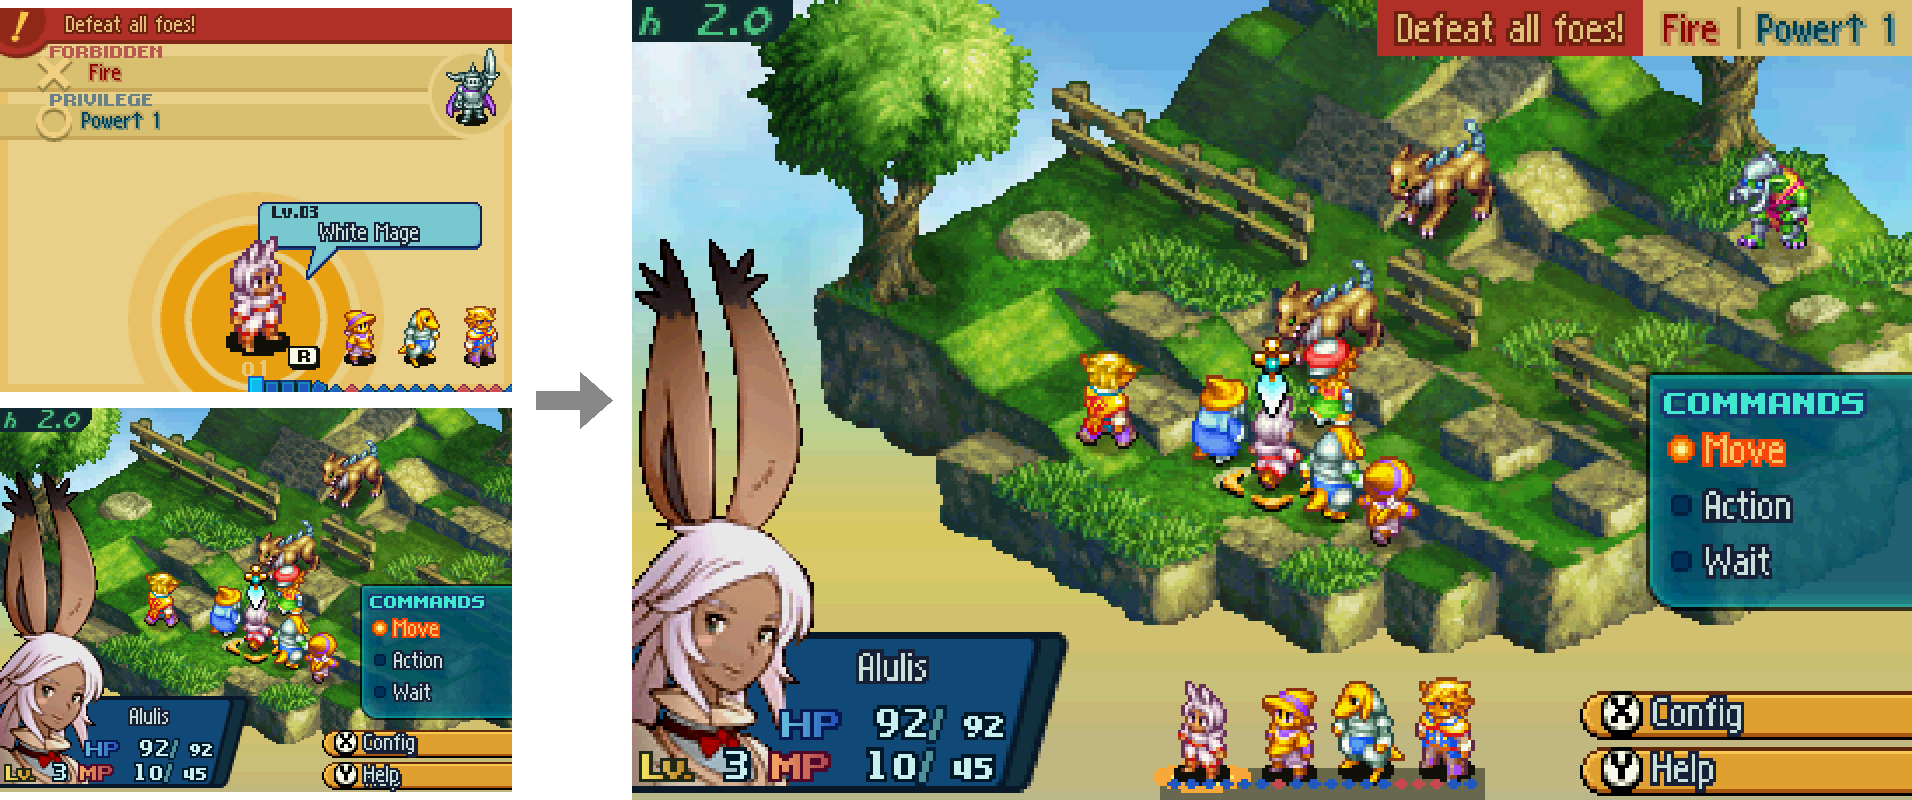
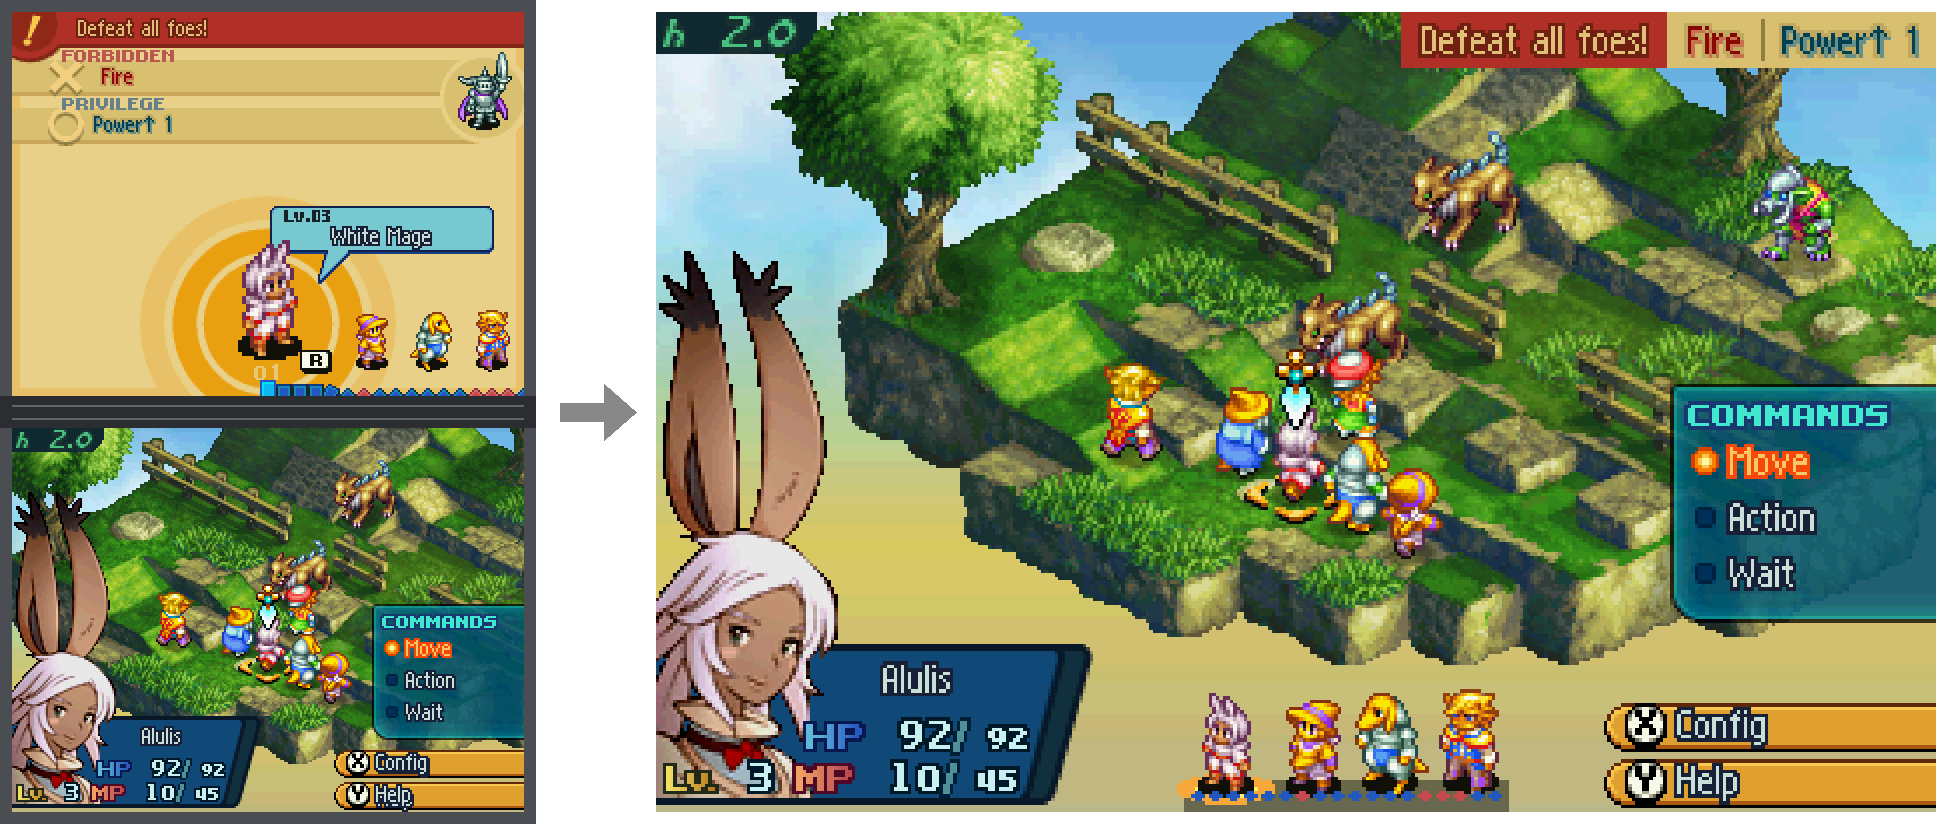
Before-and-after catalogue, the Belias clip, and pictures that show the DS's two screens

diff --git a/scripts/readme_pictures.py b/scripts/readme_pictures.py
@@ -1,0 +1,146 @@
+#!/usr/bin/env python3
+"""The README's and the catalogue's before -> after pictures, and the Scion clip.
+
+usage: readme_pictures.py readme|catalogue|clip|all
+
+Each picture is the unmodified game on a drawn DS (both screens at 2x, with the hinge between
+them, so it is plain the game used to be split) next to the Deck build's one screen at 1280x800,
+with an arrow between. Captures first (none of them go in git; build/ is ignored):
+
+  pictures   O=build/cat/after scripts/solo_menus.sh
+             RAW=1 NOSEL=1 ROM=build/ffta2-ref.nds O=build/cat/before scripts/solo_menus.sh
+             (build/ffta2-ref.nds: patch.py ... --display 4x3 --no-hooks, see docs/test-saves.md)
+  clip       ROM=build/ffta2-ref.nds scripts/play_scion.py 0 build/belias/before 206,208,...,774
+             scripts/solo_scion.py 0 build/belias/after 206-776/2
+
+Writes docs/pictures/*.png (README), docs/pictures/catalogue/*.png (docs/catalogue.md) and
+docs/pictures/belias.webp, plus build/belias/belias.mp4 (to upload through GitHub's editor).
+The only game pictures the repository may hold are these (audit_repo.py allows docs/pictures/).
+"""
+import os, subprocess, sys
+from PIL import Image, ImageDraw
+
+ROOT = os.path.dirname(os.path.dirname(os.path.abspath(__file__)))
+CAT = os.path.join(ROOT, "build", "cat")
+CLIP = os.path.join(ROOT, "build", "belias")
+PICS = os.path.join(ROOT, "docs", "pictures")
+
+README = {"battle": ("battle", "battle"), "info-overlay": ("party", "party_ov"),
+          "change-jobs": ("jobs2", "jobs2"), "world-map": ("worldmap", "worldmap")}
+BEZEL, HINGE, EDGE, ARROW = (74, 77, 82), (43, 45, 49), (98, 102, 108), (136, 136, 136)
+B, G, GAP = 12, 32, 120                  # bezel, hinge height, room for the arrow
+DS_W, DS_H = 512 + 2 * B, 384 * 2 + 2 * B + G
+W, H = DS_W + GAP + 1280, DS_H
+
+
+def catalogue():
+    out = {}
+    for line in CATALOGUE_LIST.strip().splitlines():
+        name, before, *after = line.split()
+        out[name] = (before, after[0] if after else before)
+    return out
+
+
+# docs/catalogue.md shows these (its own order and captions): name, before, after if different
+CATALOGUE_LIST = """
+action action
+forecast forecast
+help help
+battle-menu bmenu
+law law
+unit-sheet unitinfo unitinfo_ov
+ability-list abil_mage_list
+status status
+privilege privpick
+placement place
+results results
+law-bonus lawbonus
+later-battle bq18
+story-in-battle bq22
+equipment equip
+item-info equip_info
+item-list itemlist
+main-menu main
+clan clan
+quests quests
+world-map-sheet worldmap worldmap_ov
+town town
+pub pub
+quest-details questdetail
+shop shopmenu
+buying buy_info
+fitting-room fitting
+map-of-ivalice late_ivalice
+bazaar late_bazaar
+auction-house late_auction
+later-town late_camoa_town
+clan-trials late_trials
+token-emporium late_emporium
+"""
+
+
+def ds(before):
+    """Both screens (a 256x384 capture, top over bottom) at 2x on a drawn DS: a bezel round
+    them and the hinge between, so the split is obvious."""
+    s = before.convert("RGB").resize((512, 768), Image.NEAREST)
+    im = Image.new("RGBA", (DS_W, DS_H), BEZEL + (255,))
+    d = ImageDraw.Draw(im)
+    d.rectangle((0, B + 384, DS_W - 1, B + 384 + G - 1), fill=HINGE + (255,))
+    for y in (B + 384 + 9, B + 384 + G - 10):
+        d.line((B, y, DS_W - B - 1, y), fill=EDGE + (255,), width=2)
+    im.paste(s.crop((0, 0, 512, 384)), (B, B))
+    im.paste(s.crop((0, 384, 512, 768)), (B, B + 384 + G))
+    return im
+
+
+def pair(before, after, bg=(0, 0, 0, 0)):
+    im = Image.new("RGBA", (W, H), bg)
+    im.paste(ds(before), (0, 0))
+    im.paste(after.convert("RGB"), (DS_W + GAP, (H - 800) // 2))
+    d = ImageDraw.Draw(im)
+    cx, cy = DS_W + GAP // 2, H // 2
+    d.rectangle((cx - 36, cy - 9, cx + 8, cy + 9), fill=ARROW + (255,))
+    d.polygon([(cx + 8, cy - 28), (cx + 40, cy), (cx + 8, cy + 28)], fill=ARROW + (255,))
+    return im
+
+
+def pictures(table, outdir):
+    os.makedirs(outdir, exist_ok=True)
+    for name, (b, a) in table.items():
+        pair(Image.open(os.path.join(CAT, "before", b + ".png")),
+             Image.open(os.path.join(CAT, "after", a + ".png"))).save(
+            os.path.join(outdir, name + ".png"), optimize=True)
+        print(os.path.relpath(os.path.join(outdir, name + ".png"), ROOT))
+
+
+def clip(first=300, last=700):
+    """Belias from game frame `first` to `last` (captures every 2nd frame): an animated WebP
+    for the README (half size, 15 fps, see-through round the pictures) and an MP4."""
+    frames = range(first, last, 2)
+    load = lambda side, f: Image.open(os.path.join(CLIP, side, "0_%04d.png" % f))
+    web = [pair(load("before", f), load("after", f)).resize((W // 2, H // 2), Image.LANCZOS)
+           for f in frames[::2]]
+    out = os.path.join(PICS, "belias.webp")
+    web[0].save(out, save_all=True, append_images=web[1:], duration=67, loop=0, quality=55, method=6)
+    print(os.path.relpath(out, ROOT), os.path.getsize(out) // 1024, "KB")
+    tmp = os.path.join(CLIP, "mp4")
+    os.makedirs(tmp, exist_ok=True)
+    for i, f in enumerate(frames):
+        pair(load("before", f), load("after", f), (13, 17, 23, 255)).convert("RGB").save(
+            os.path.join(tmp, "%04d.png" % i))
+    mp4 = os.path.join(CLIP, "belias.mp4")
+    subprocess.check_call(["ffmpeg", "-loglevel", "error", "-y", "-framerate", "30", "-i",
+                           os.path.join(tmp, "%04d.png"), "-vf", "scale=1280:-2:flags=lanczos",
+                           "-c:v", "libx264", "-crf", "28", "-preset", "slow", "-pix_fmt", "yuv420p",
+                           "-movflags", "+faststart", mp4])
+    print(os.path.relpath(mp4, ROOT), os.path.getsize(mp4) // 1024, "KB")
+
+
+if __name__ == "__main__":
+    what = sys.argv[1] if len(sys.argv) > 1 else "all"
+    if what in ("readme", "all"):
+        pictures(README, PICS)
+    if what in ("catalogue", "all"):
+        pictures(catalogue(), os.path.join(PICS, "catalogue"))
+    if what in ("clip", "all"):
+        clip()

diff --git a/docs/catalogue.md b/docs/catalogue.md
@@ -1,0 +1,169 @@
+# Before and after
+
+More of the game with and without **FFTA2 One Screen**. In every picture, the left side is
+the unmodified game on the DS's two screens (shown at 2x), and the right side is the same
+moment with the mod's Steam Deck patch, on one 1280x800 screen. Each pair comes from the
+same savestate.
+
+Back to the [README](../README.md).
+
+- [Battles](#battles)
+- [Party and menus](#party-and-menus)
+- [World map, towns and shops](#world-map-towns-and-shops)
+- [Later in the game](#later-in-the-game)
+
+## Scions
+
+The Scions' summons are the only animations the game draws across both screens at once. With
+the mod they play as one tall picture on the one screen.
+
+![Belias's summon: on the DS its picture runs across both screens; with the mod it plays whole on one screen](pictures/belias.webp)
+
+## Battles
+
+Choosing an action. The battle map fills the wide screen; the objective, law and privilege
+sit in the banner at the top right, and the turn order at the bottom.
+
+![Before and after: choosing an action in battle](pictures/catalogue/action.png)
+
+The hit forecast before an attack, with both units' panels at the bottom edges.
+
+![Before and after: the hit forecast before an attack](pictures/catalogue/forecast.png)
+
+Help for the highlighted command.
+
+![Before and after: help text in battle](pictures/catalogue/help.png)
+
+The battle menu.
+
+![Before and after: the battle menu](pictures/catalogue/battle-menu.png)
+
+Viewing the battle's law.
+
+![Before and after: viewing the law in battle](pictures/catalogue/law.png)
+
+A unit's sheet, which the DS showed on the top screen, laid over the battle after a tap of
+SELECT.
+
+![Before and after: a unit's sheet on the top screen, then laid over the battle](pictures/catalogue/unit-sheet.png)
+
+The ability list, made more compact.
+
+![Before and after: a black mage's ability list](pictures/catalogue/ability-list.png)
+
+Buffs and debuffs.
+
+![Before and after: the buffs and debuffs list](pictures/catalogue/status.png)
+
+Choosing a clan privilege before a battle.
+
+![Before and after: choosing a clan privilege](pictures/catalogue/privilege.png)
+
+Placing units before a battle.
+
+![Before and after: placing units](pictures/catalogue/placement.png)
+
+The results after a battle.
+
+![Before and after: battle results](pictures/catalogue/results.png)
+
+The law bonus at the end of a battle.
+
+![Before and after: the law bonus](pictures/catalogue/law-bonus.png)
+
+A battle later in the game.
+
+![Before and after: a later battle map](pictures/catalogue/later-battle.png)
+
+A story scene played on a battle map.
+
+![Before and after: a story scene on a battle map](pictures/catalogue/story-in-battle.png)
+
+## Party and menus
+
+Equipping a unit.
+
+![Before and after: equipping a unit](pictures/catalogue/equipment.png)
+
+Item Info in the equipment list: the unit's stats, which were on the top screen, sit beside
+the game's own panel.
+
+![Before and after: Item Info with the unit's stats beside it](pictures/catalogue/item-info.png)
+
+The item list.
+
+![Before and after: the item list](pictures/catalogue/item-list.png)
+
+The main menu.
+
+![Before and after: the main menu on the world map](pictures/catalogue/main-menu.png)
+
+The clan menu.
+
+![Before and after: the clan menu](pictures/catalogue/clan.png)
+
+Accepted quests.
+
+![Before and after: the list of accepted quests](pictures/catalogue/quests.png)
+
+## World map, towns and shops
+
+The world map, with the clan's page (the top screen on the DS) laid over it after a tap of
+SELECT.
+
+![Before and after: the clan's page on the top screen, then laid over the world map](pictures/catalogue/world-map-sheet.png)
+
+A town's menu on the world map.
+
+![Before and after: a town on the world map](pictures/catalogue/town.png)
+
+The pub.
+
+![Before and after: the pub](pictures/catalogue/pub.png)
+
+A quest's details at the pub.
+
+![Before and after: a quest's details](pictures/catalogue/quest-details.png)
+
+A shop.
+
+![Before and after: a shop's menu](pictures/catalogue/shop.png)
+
+Buying, with Item Info open and the unit's stats beside it.
+
+![Before and after: Item Info while buying](pictures/catalogue/buying.png)
+
+The fitting room.
+
+![Before and after: the fitting room](pictures/catalogue/fitting-room.png)
+
+## Later in the game
+
+The map of Ivalice. Its edges are extended to reach the sides of the wide screen.
+
+![Before and after: the map of Ivalice](pictures/catalogue/map-of-ivalice.png)
+
+The bazaar.
+
+![Before and after: the bazaar](pictures/catalogue/bazaar.png)
+
+The auction house.
+
+![Before and after: the auction house](pictures/catalogue/auction-house.png)
+
+A later town.
+
+![Before and after: a later town on the world map](pictures/catalogue/later-town.png)
+
+Clan trials.
+
+![Before and after: the list of clan trials](pictures/catalogue/clan-trials.png)
+
+The token emporium.
+
+![Before and after: the token emporium](pictures/catalogue/token-emporium.png)
+
+---
+
+The pictures are screenshots of the game running in an emulator, for comparison. This project
+is not affiliated with Square Enix or Nintendo; see [Legal](../README.md#legal).

diff --git a/CLAUDE.md b/CLAUDE.md
@@ -10,7 +10,7 @@ A ROM patch for Final Fantasy Tactics A2 (DS, USA) that puts the whole game on o
 - **Applying** is done by `scripts/modpatch.py` (stdlib only), from a mod description `patch.py` builds: the same code players run from `dist/ffta2-1screen-patcher.py` (`scripts/make_patcher.py`), which works on ROMs other mods have changed (ADR 0011). A new patch site needs its `put(addr, new, original)` in `patch.py` and a line in `docs/symbols.tsv` (the name shows in clash messages). After changing either, run `python3 scripts/test_modpatch.py` and keep `scripts/check_no_game_bytes.py` passing on anything meant for publishing.
 - **Test:** `scripts/solo.py STATE SCRIPT OUTDIR` gives an exact 1280x800 picture of the mod's screen in seconds, from DeSmuME savestates in `states/`. Use it for previews. For a real melonDS look at a known moment, `scripts/melon_state.py states/m_battle1.ml1 OUT.png` (about 15 s, any build; melonDS states in `states/m_*.ml1`); the older replay rigs (`scripts/melon_*.sh`) are slow and only needed to make new base states. `docs/test-saves.md` explains how the states and saves are rebuilt. `scripts/vram_guard.py STATE [SCRIPT]` reports when the mod and the game use the same video memory at once (silent = clean; `scripts/vram_guard_all.sh` runs every state and menu walk, about 9 min). The ranges it watches are `borrowed_vram[]` at the end of `src/hook.c`: add a line there whenever the mod starts writing video memory somewhere new. `patch.py --guard` makes a test ROM for playing that lights a red dot top left when it catches a clash; `scripts/guard_report.py STATE` reads the details from a savestate made there.
 - **One emulator rig at a time on this machine.** Other sessions share it: check `pgrep -x melonDS` before a melonDS run and never `pkill` another session's rig.
-- Local git commits are fine. Pushing to a remote, or making anything public, waits for the user's word. Game data and anything derived from it (ROM, `unpacked/`, `work/`, `states/`, `shots/`, `preview/`) stays out of git. Don't quote game texts in tickets or scripts (give lengths or table addresses); the only game pictures allowed are the README's in `docs/pictures/`. `.venv/bin/python scripts/audit_repo.py --tree` (about 3 min) checks the files for game bytes, game text and binaries; without `--tree` it checks the whole history.
+- Local git commits are fine. Pushing to a remote, or making anything public, waits for the user's word. Game data and anything derived from it (ROM, `unpacked/`, `work/`, `states/`, `shots/`, `preview/`) stays out of git. Don't quote game texts in tickets or scripts (give lengths or table addresses); the only game pictures allowed are in `docs/pictures/`: the README's and the before-and-after catalogue's (`docs/catalogue.md`), all made by `scripts/readme_pictures.py`. `.venv/bin/python scripts/audit_repo.py --tree` (about 3 min) checks the files for game bytes, game text and binaries; without `--tree` it checks the whole history.
 - **Release:** `.venv/bin/python scripts/make_release.py` builds `dist/release/` (a BPS patch per preset plus the patcher, ADR 0012) and refuses if any file holds game bytes, or if the map art is missing. Each run compiles in its own folder under `build/` (`FFTA2_BUILD_DIR` for `patch.py`), so sessions can release at the same time.
 - **Map art:** the map of Ivalice's edges are AI-extended art (ADR 0018), kept in `work/map_art/` (game-derived, never in git). `patch.py` builds it in when `work/map_art/map_art.lz` exists; `scripts/map_art_dump.py`, `map_art_outpaint.py`, `map_art_tear.py` and `map_art_pack.py` make it (ADR 0018 has the steps).
 - **Blob room:** the mod's variables live after the blob, not in it (ADR 0017). `patch.py` prints both: code against `BLOB_RESERVE` (nearly full), variables against `BSS_ROOM`. Raising `BLOB_RESERVE` moves the game's files in the ROM and makes every test state unusable; a large zero-initialised table costs only variable room.

diff --git a/README.md b/README.md
@@ -38,13 +38,20 @@ the highlighted job sit at the top left:
 ![Before and after: Change Jobs with the stat column on the top screen, then the same stat column at the top left of the one screen, next to the job list](docs/pictures/change-jobs.png)
 
 **Everything else is widened too.** The world map, towns, shops, the bazaar, auctions, story
-scenes and the title screen all fill the wide screen. The Scions' summons, the only animations
-drawn across both screens, play as one tall picture on the one screen.
+scenes and the title screen all fill the wide screen.
 
 ![Before and after: the world map on the DS's bottom screen, then widened to the edges of the one screen](docs/pictures/world-map.png)
 
-*Pictures: left, the unmodified game's two screens (2x); right, the Steam Deck patch at
-1280x800. Both from the same savestate.*
+**The Scions' summons play whole.** They are the only animations the game draws across both
+screens at once. With the mod they play as one tall picture on the one screen:
+
+![Belias's summon: on the DS its picture runs across both screens; with the mod it plays whole on one screen](docs/pictures/belias.webp)
+
+*Pictures: left, the unmodified game on the DS's two screens (2x); right, the Steam Deck patch
+at 1280x800. Each pair comes from the same savestate.*
+
+**See more:** [the before-and-after catalogue](docs/catalogue.md) has 33 more pairs, from
+battles and menus to towns, shops and the late game.
 
 It is made for emulators. Real DS hardware is not supported.
 
@@ -164,6 +171,7 @@ on the code.
 - You must dump the game from a cartridge you own. This project does not provide ROMs, does not
   link to them, and will not help you find them.
 - The patches and the patcher contain only the mod's own code. They don't contain any part of
-  the original game: every release is checked for that automatically. The four pictures above
-  (the original game next to the mod) are the only game images in the repository.
+  the original game: every release is checked for that automatically. The pictures in
+  `docs/pictures/` (the original game next to the mod, shown here and in the
+  [catalogue](docs/catalogue.md)) are the only game images in the repository.
 - The mod's code and documents are under the [MIT License](LICENSE).
